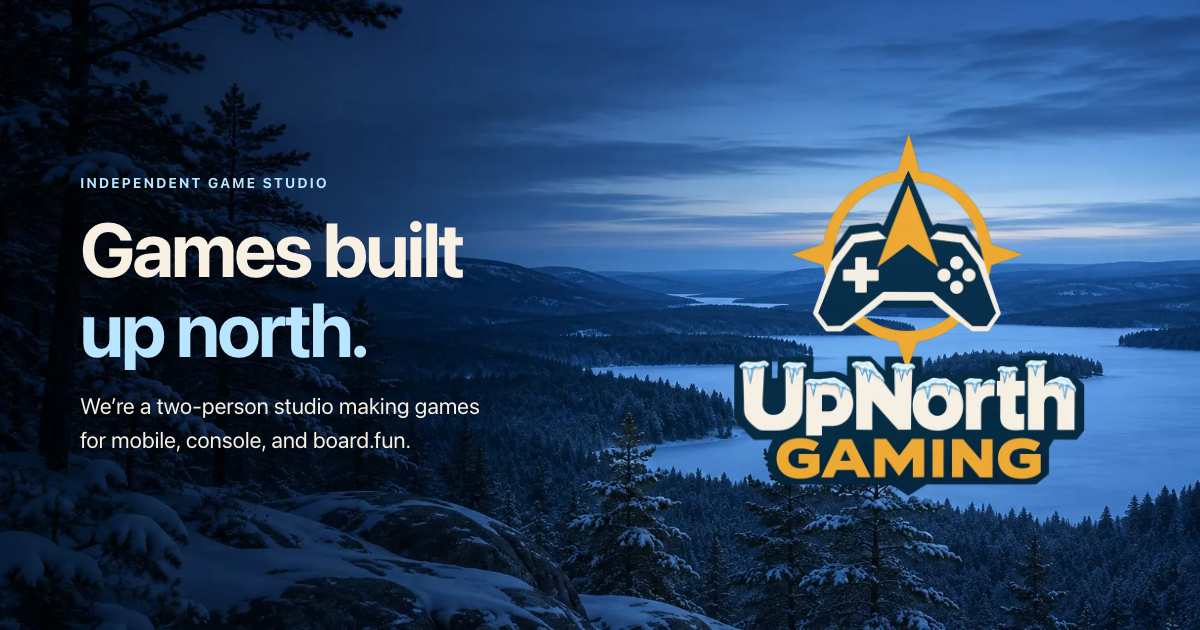
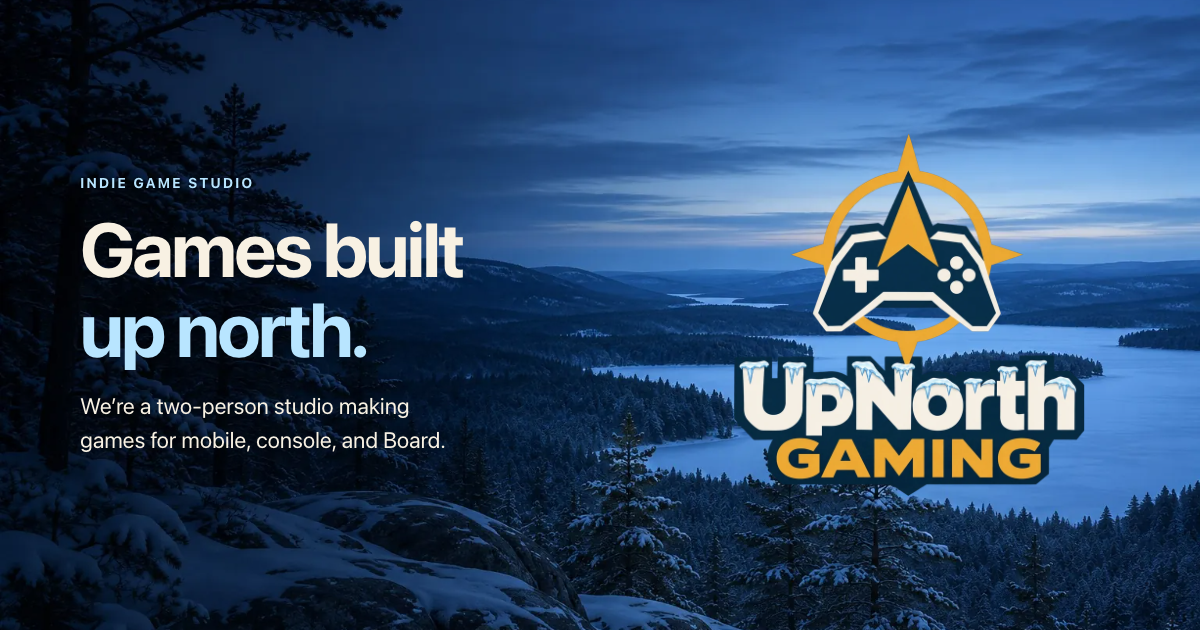
Match the link preview's copy to the hero
`og-image.html` now says "Indie game studio" and "Board" like `index.html`, and `og-image.png` is re-rendered.

Changed region(s): [[0.0617, 0.6635, 0.37, 0.7238], [0.0925, 0.2714, 0.2775, 0.3016], [0.3392, 0.6333, 0.4008, 0.6635]]

diff --git a/scripts/brand/og-image.html b/scripts/brand/og-image.html
@@ -47,9 +47,9 @@
 
         <div class="container hero-inner">
             <div class="hero-copy">
-                <p class="hero-eyebrow">Independent game studio</p>
+                <p class="hero-eyebrow">Indie game studio</p>
                 <h1>Games built <span>up north.</span></h1>
-                <p class="tagline">We’re a two-person studio making games for mobile, console, and board.fun.</p>
+                <p class="tagline">We’re a two-person studio making games for mobile, console, and Board.</p>
             </div>
 
             <img class="hero-logo" src="../../images/logo.webp" alt="" width="720" height="746">
